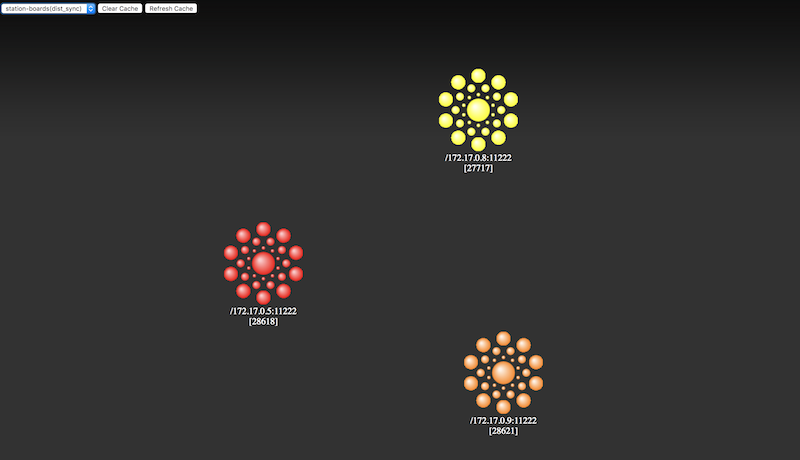
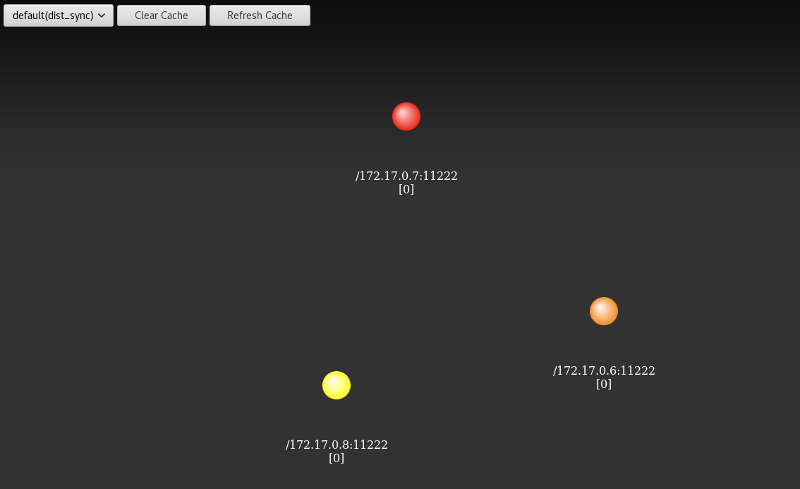
Update the Infinispan Viz screenshot

diff --git a/workshop-steps/workshop.html b/workshop-steps/workshop.html
@@ -87,7 +87,7 @@ MANAGEMENT_USER/MANAGEMENT_PASSWORD=developer/developer</code></pre>
       <li>Deploy all the components for the workshop with <code>./deploy-all.sh</code></strong></li>
       <li>Check the <strong>Infinispan Visualizer</strong> <a href="http://datagrid-visualizer-myproject.127.0.0.1.nip.io/infinispan-visualizer/" target="_target">here</a>
         <br/>
-        <p>The image here corresponds to the state of 3 instances having data.</p>
+        <p>The image here corresponds to the state of 3 instances without data.</p>
         <img src="img/infinispan-visu.png" alt="visualizer" class="img-rounded"/>
       </li>
     </ul>
